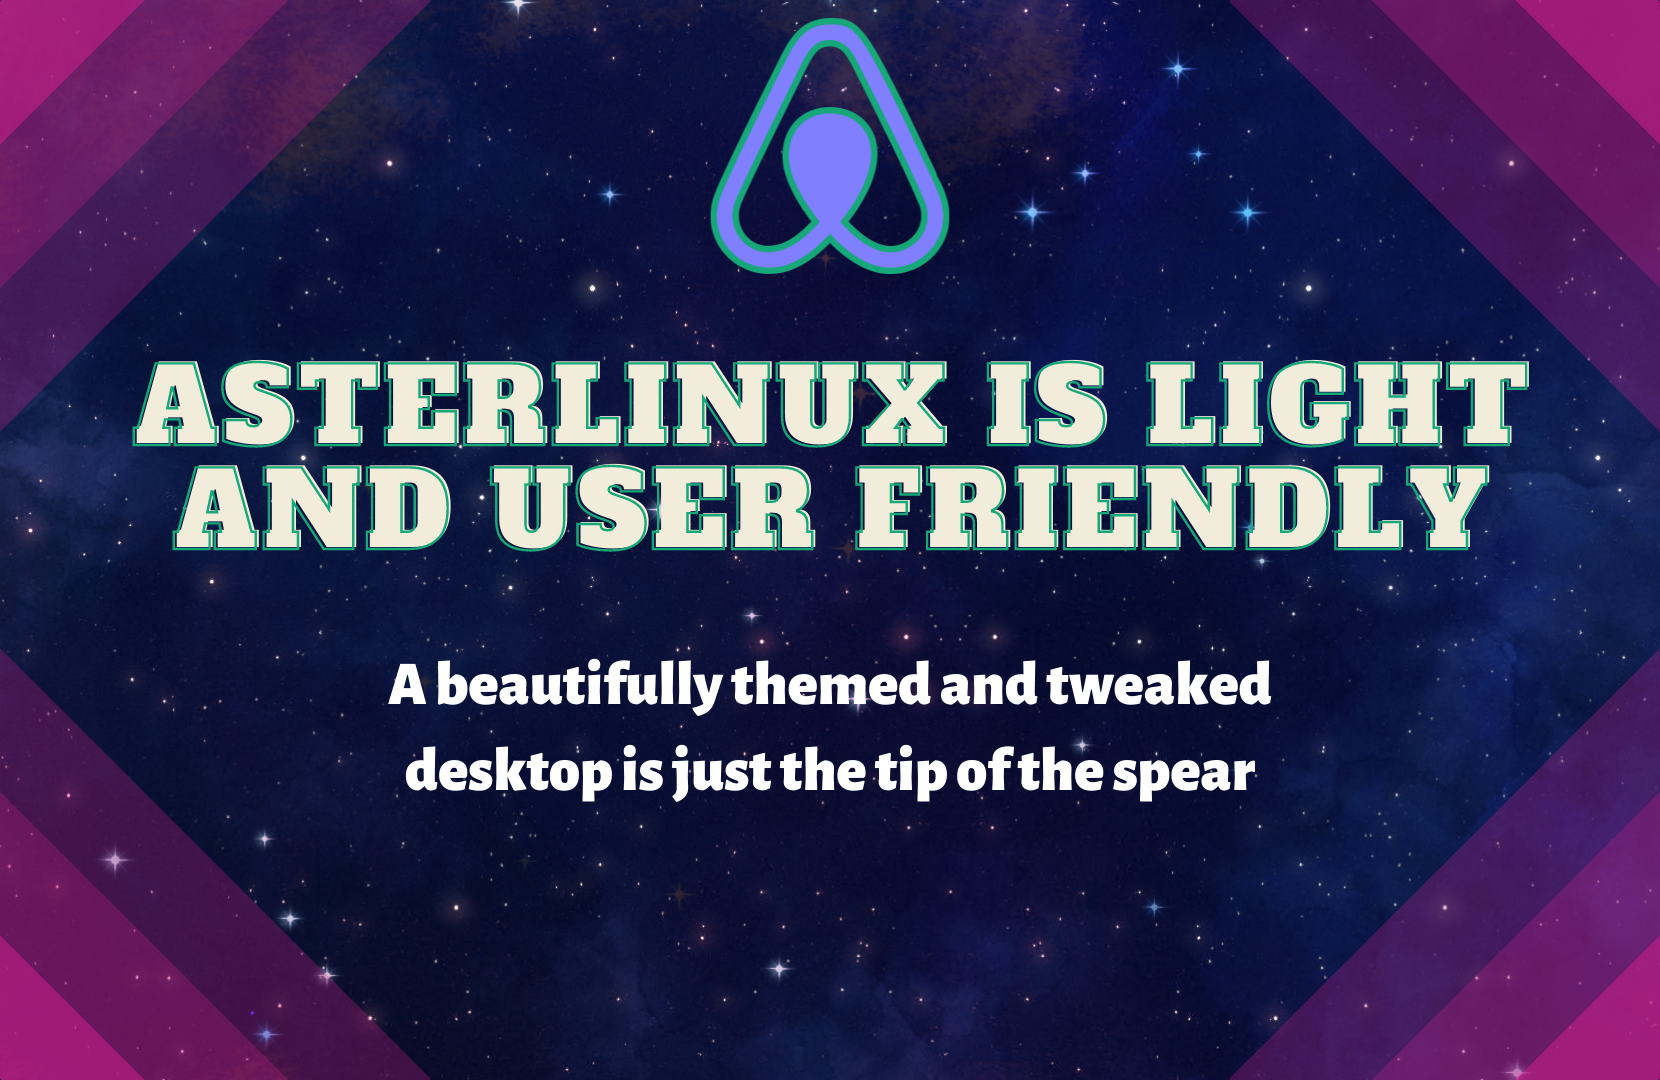
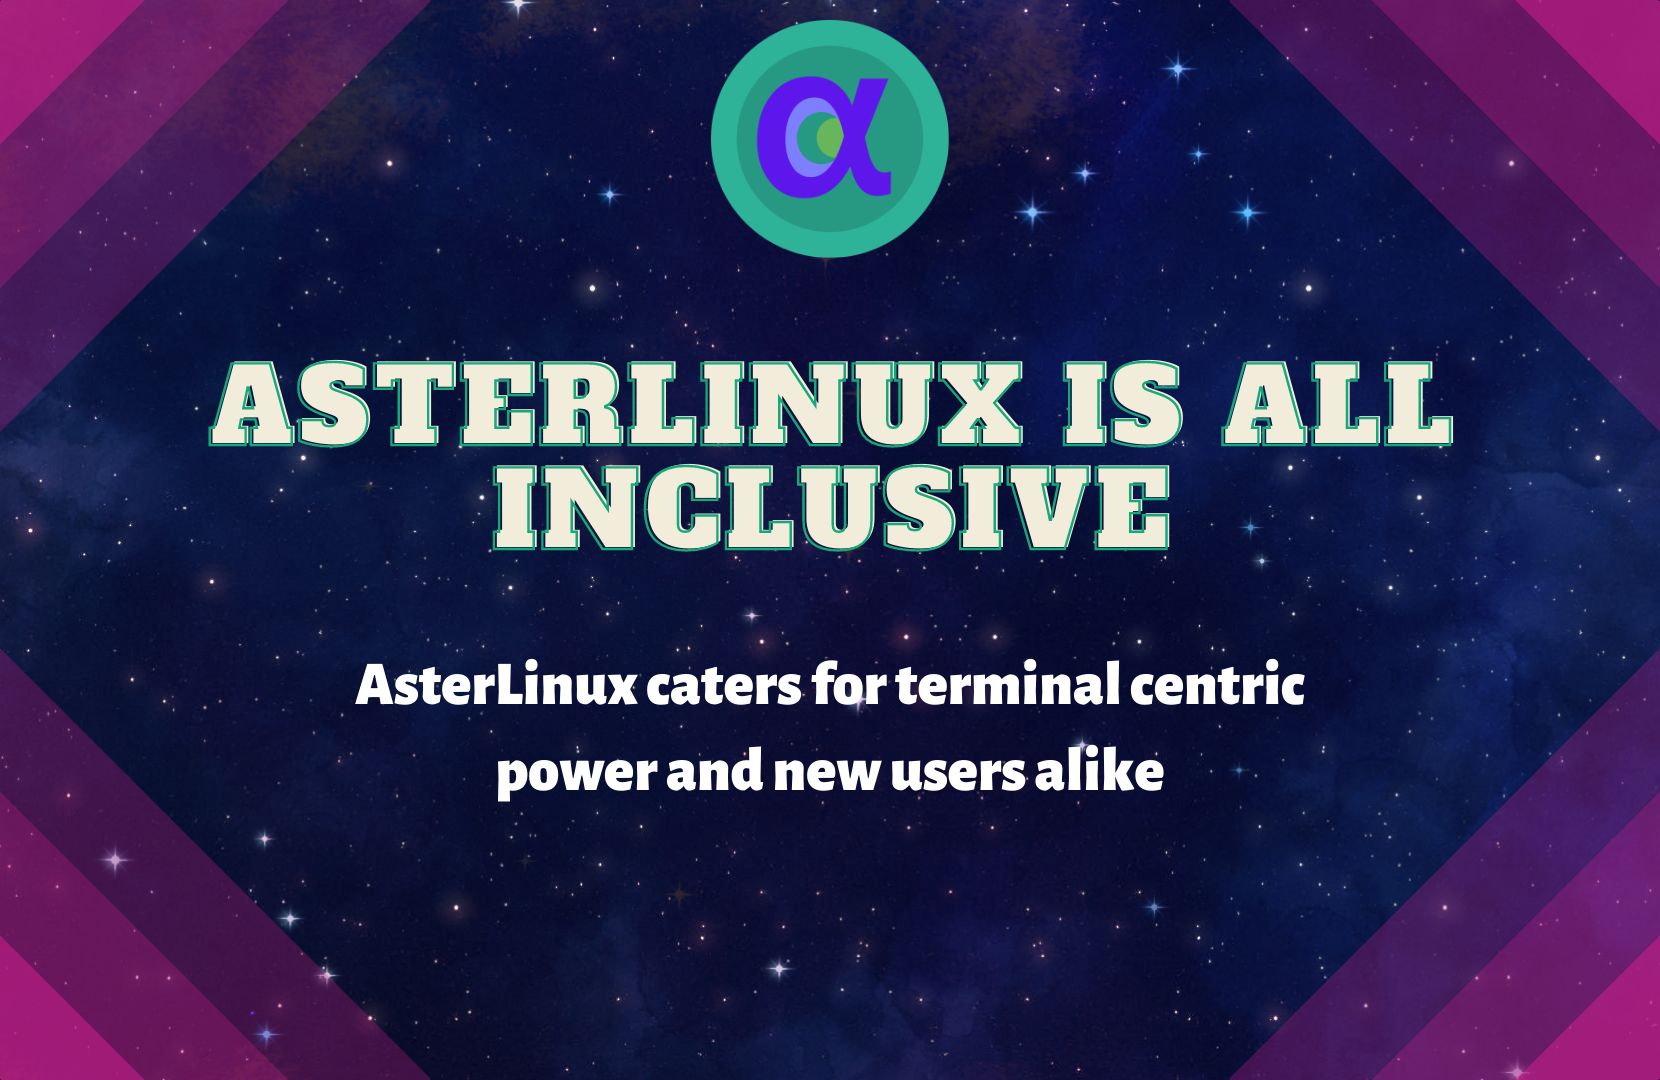
new slides

Changed region(s): [[0.0614, 0.3361, 0.9217, 0.5194], [0.2151, 0.6111, 0.7988, 0.7333], [0.4301, 0.0, 0.5837, 0.275]]

diff --git a/calamares/branding/default/show.qml b/calamares/branding/default/show.qml
@@ -117,6 +117,17 @@ Presentation
         }
     }
 
+                    Slide {
+
+        Image {
+            id: background_9
+            source: "aster9.png"
+            width: 1002; height: 651
+            fillMode: Image.PreserveAspectFit
+            anchors.centerIn: parent
+        }
+    }
+
 
     // When this slideshow is loaded as a V1 slideshow, only
     // activatedInCalamares is set, which starts the timer (see above).
